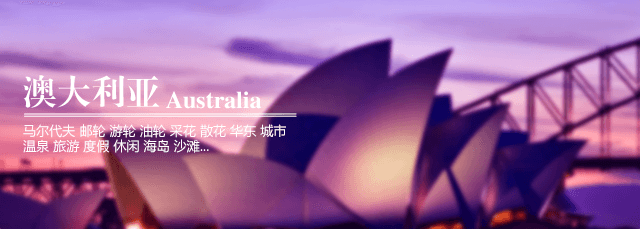
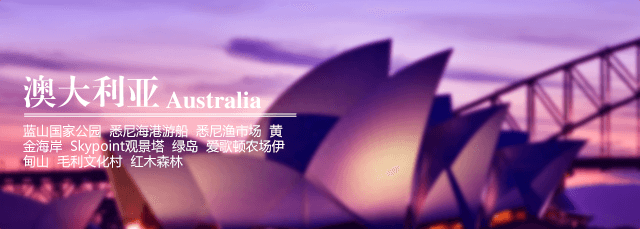
优化：调整图片并重新压缩 调整：抽奖接口

Changed region(s): [[0.0312, 0.5197, 0.4688, 0.7336], [0.5938, 0.7031, 0.625, 0.7642], [0.1875, 0.9476, 0.2188, 0.9782]]

diff --git a/www/fm_20161124_kaimenhong.html b/www/fm_20161124_kaimenhong.html
@@ -23,6 +23,7 @@
 			padding: 0;
 			margin: 0;
 			background-color: #F20000;
+			padding-bottom: 50px;
 		}
 
 		img {
@@ -44,7 +45,7 @@
 			width: 640px;
 			height: 229px;
 			box-sizing: border-box;
-			padding-left: 316px;
+			padding-left: 320px;
 		}
 
 		/*列表模块*/
@@ -165,10 +166,10 @@
 			color: #000;
 			font-size: 18px;
 			line-height: 45px;
-			left: 150px;
+			left: 100px;
 			top: 0;
 			position: absolute;
-			width: 12em;
+			width: 18em;
 			overflow: hidden;
 		}
 
@@ -196,6 +197,13 @@
 			background-color: #FFF;
 			border-radius: 5px;
 			overflow: hidden;
+
+			transition: transform 500ms ease-out, z-index 0s;
+		}
+
+		.tour-unit:hover {
+			transform: scale(1.15);
+			z-inedx: 9;
 		}
 
 		.panel-bigpic .tour-unit {
@@ -236,29 +244,19 @@
 			left: 0;
 			bottom: 57px;
 			width: 280px;
-			height: 30px;
+			max-height: 30px;
 			background-color: rgba(0, 0, 0, 0.7);
 			color: #FFF;
 			line-height: 30px;
 			box-sizing: border-box;
 			padding: 0 10px;
+
+			transition: max-height 1s ease-out, background-color 1s ease-out;
 		}
-		@keyframes height-auto {
-			from {
-				height:30px;
-				background-color:rgba(0, 0, 0, 0.7);
-			}
-			to {
-				height:60px;
-				background-color:rgba(0, 0, 0, 1);
-			}
-		}
+
 		.tour-unit:hover > .name {
-			/*height:auto;*/
-			animation: height-auto 0.6s;
-			animation-fill-mode:both;
-			animation-direction:alternate;
-			transition: transform 500ms ease-out;
+			max-height: 153px;
+			background-color: rgba(0, 0, 0, 1);
 		}
 
 		.tour-unit > .orgprice {
@@ -330,41 +328,76 @@
 				//将所有结果扫描一遍，分拣到对应的数组中去
 				result.value.map(function (unit) {
 					console.log(unit.tourproname);
+					//原价的计算
+					console.log('折扣价格:', unit.pricedescribe, unit.pricedescribe == '');
+					if (unit.pricedescribe == '') {
+						unit.pricedescribe = (parseInt(unit.leastprice / 0.8 / 10)) + '0';
+					}
 					//签证
-					if (unit.tourproname.indexOf('签证') > -1)
+					if (unit.tourproname.indexOf('签证') > -1) {
 						mainVM.visa.push(unit);
-					//机票
-					if (unit.tourproname.indexOf('直飞') > -1)
-						mainVM.internationalticket.push(unit);
+						return true;
+					}
 					//野斯米兰
-					if (unit.tourproname.indexOf('墅斯米兰') > -1)
+					if (unit.tourproname.indexOf('墅斯米兰') > -1) {
 						mainVM.wildsmiles.push(unit);
+						return true;
+					}
 					//台湾
-					if (unit.tourproname.indexOf('台湾') > -1)
+					if (unit.tourproname.indexOf('台湾') > -1) {
 						mainVM.taiwan.push(unit);
+						return true;
+					}
 					//普吉
-					if (unit.tourproname.indexOf('普吉') > -1)
+					if (unit.tourproname.indexOf('普吉') > -1) {
 						mainVM.phuket.push(unit);
+						return true;
+					}
 					//日本
-					if (unit.tourproname.indexOf('日本') > -1)
+					if (unit.tourproname.indexOf('日本') > -1) {
 						mainVM.japan.push(unit);
+						return true;
+					}
 					//量子号邮轮
-					if (unit.tourproname.indexOf('量子号') > -1)
+					if (unit.tourproname.indexOf('量子号') > -1) {
 						mainVM.quantumcruises.push(unit);
+						return true;
+					}
 					//欧美（先欧洲）
-					if (unit.tourproname.indexOf('欧洲') > -1)
+					if (unit.tourproname.indexOf('欧洲') > -1) {
 						mainVM.europeandamericas.push(unit);
+						return true;
+					}
 					//欧美（再美国)
-					if (unit.tourproname.indexOf('美国') > -1)
+					if (unit.tourproname.indexOf('美国') > -1) {
 						mainVM.europeandamericas.push(unit);
+						return true;
+					}
 					//澳大利亚
-					if (unit.tourproname.indexOf('澳洲新西兰') > -1)
+					if (unit.tourproname.indexOf('澳洲新西兰') > -1) {
 						mainVM.australia.push(unit);
+						return true;
+					}
 					//马尔代夫
-					if (unit.tourproname.indexOf('马代') > -1)
+					if (unit.tourproname.indexOf('马代') > -1) {
 						mainVM.maldives.push(unit);
+						return true;
+					}
 					//泰国
+					if (unit.tourproname.indexOf('泰国') > -1) {
+						mainVM.maldives.push(unit);
+						return true;
+					}
 					//南岳祈福
+					if (unit.tourproname.indexOf('南岳') > -1) {
+						mainVM.maldives.push(unit);
+						return true;
+					}
+					//机票
+					if (unit.tourproname.indexOf('机票') > -1) {
+						mainVM.internationalticket.push(unit);
+						return true;
+					}
 				});
 			});
 		});
@@ -373,7 +406,7 @@
 <body ms-controller="main">
 
 <!--TODO: DEBUG-->
-<ul>
+<ul style="display:none;">
 	<li ms-repeat-unit="nanyueblessing">{{unit.tourproname}}</li>
 	<li ms-repeat-unit="internationalticket">{{unit.tourproname}}</li>
 	<li ms-repeat-unit="visa">{{unit.tourproname}}</li>
@@ -505,8 +538,12 @@
 			/* background: #F00; */
 			width: 25%;
 			height: 67%;
-			right: 3%;
+			right: 1.3%;
 			top: 21%;
+			line-height: 46.22px;
+			text-align: center;
+			color: #FFF;
+			font-size: 20px;
 		}
 
 		#nwlottery > img.lotteryimg {
@@ -529,8 +566,8 @@
 		<img alt="" class="lotteryimg" src="./images/nwlottery10.png">
 		<img alt="" class="lotteryimg" src="./images/nwlottery20.png">
 		<img alt="" class="lotteryimg" src="./images/nwlottery50.png">
-		<img src="./images/newyearlottery.png" alt="">
-		<div id="lotteryBtn" running="0"></div>
+		<img src="./images/kaimenhong/newyearlottery.png" alt="">
+		<div id="lotteryBtn" running="0">点击抽奖</div>
 	</div>
 	<script>
 		//在微信中才显示抽奖活动
@@ -546,11 +583,12 @@
 				alert('您正在抽奖中');
 				return false;
 			}
-			//设置运行状态为1
-			$('#lotteryBtn').attr('running', 1);
-			//TODO:现在都是测试数据
 			$.getJSON(server_addr + '/miaosha/miaosha_addChouJiangOrder.action?jsoncallback=?&userid=' + '636773', function (result) {
-				if (result.status == '1' || true) {
+				console.log('抽奖结果：',result);
+				//TODO:现在都是测试数据，记得要把true关掉！
+				if (result.status == '1') {
+					//设置运行状态为1
+					$('#lotteryBtn').attr('running', 1);
 					//返回成功的处理
 					var _maxCicle    = 50;	//默认先滚动多少次
 					var _circleCount = 0;	//滚动计数器
@@ -572,6 +610,7 @@
 							clearInterval(_siPoint);
 							//设置运行状态为0
 							$('#lotteryBtn').attr('running', 0);
+							$('#lotteryBtn').text('剩余次数:'+result.count);
 						}
 					}, 100);
 				} else {
@@ -579,6 +618,11 @@
 					var errMsg = '';
 					if (result.status == '102') {
 						errMsg = '您已参加过抽奖，请点击右上角进入用户中心查看。';
+						$('#lotteryBtn').text('次数已用完');
+					}
+					if (result.status == '103') {
+						errMsg = '活动尚未开始，敬请期待。';
+						$('#lotteryBtn').text('尚未开始');
 					}
 					if (errMsg != '') {
 						alert(errMsg);
@@ -611,7 +655,7 @@
 		<div class="price">&yen;{{unit.leastprice}}</div>
 		<div class="date">{{unit.tourdescdate.split(',')[0]}}</div>
 		<div class="desc">{{unit.startcity}}-{{unit.nation}}</div>
-		<a ms-attr-href="{{unit.lineid}}" class="link">查看详情</a>
+		<a ms-attr-href="http://www.htyou.com/weixin_h5/tour-detail.html?lineid={{unit.lineid}}" class="link">查看详情</a>
 	</div>
 </div>
 <!--签证-->
@@ -625,7 +669,7 @@
 	<div class="visa-unit" ms-repeat-unit="visa">
 		<div class="price">&yen;{{unit.leastprice}}</div>
 		<div class="desc">{{unit.tourproname}}</div>
-		<a ms-attr-href="{{unit.lineid}}" class="link">查看详情</a>
+		<a ms-attr-href="http://www.htyou.com/weixin_h5/tour-detail.html?lineid={{unit.lineid}}" class="link">查看详情</a>
 	</div>
 </div>
 
@@ -643,9 +687,9 @@
 		<div class="coupon">红包限额50元</div>
 		<div class="image" ms-attr-style="background-image: url(http://www.htyou.com/{{unit.spotviewpic}});"></div>
 		<div class="name">{{unit.tourproname}}</div>
-		<div class="orgprice">原价：<span>30000元</span></div>
+		<div class="orgprice">原价：<span>{{unit.pricedescribe}}元</span></div>
 		<div class="discount">折扣价&yen;{{unit.leastprice}}元</div>
-		<a ms-attr-href="{{unit.lineid}}" class="buybuybuy">立即预订</a>
+		<a ms-attr-href="http://www.htyou.com/weixin_h5/tour-detail.html?lineid={{unit.lineid}}" class="buybuybuy">立即预订</a>
 	</div>
 	<!--/线路单元-->
 </div>
@@ -662,9 +706,9 @@
 		<div class="coupon">红包限额50元</div>
 		<div class="image" ms-attr-style="background-image: url(http://www.htyou.com/{{unit.spotviewpic}});"></div>
 		<div class="name">{{unit.tourproname}}</div>
-		<div class="orgprice">原价：<span>30000元</span></div>
+		<div class="orgprice">原价：<span>{{unit.pricedescribe}}元</span></div>
 		<div class="discount">折扣价&yen;{{unit.leastprice}}元</div>
-		<a ms-attr-href="{{unit.lineid}}" class="buybuybuy">立即预订</a>
+		<a ms-attr-href="http://www.htyou.com/weixin_h5/tour-detail.html?lineid={{unit.lineid}}" class="buybuybuy">立即预订</a>
 	</div>
 	<!--/线路单元-->
 </div>
@@ -681,9 +725,9 @@
 		<div class="coupon">红包限额50元</div>
 		<div class="image" ms-attr-style="background-image: url(http://www.htyou.com/{{unit.spotviewpic}});"></div>
 		<div class="name">{{unit.tourproname}}</div>
-		<div class="orgprice">原价：<span>30000元</span></div>
+		<div class="orgprice">原价：<span>{{unit.pricedescribe}}元</span></div>
 		<div class="discount">折扣价&yen;{{unit.leastprice}}元</div>
-		<a ms-attr-href="{{unit.lineid}}" class="buybuybuy">立即预订</a>
+		<a ms-attr-href="http://www.htyou.com/weixin_h5/tour-detail.html?lineid={{unit.lineid}}" class="buybuybuy">立即预订</a>
 	</div>
 	<!--/线路单元-->
 </div>
@@ -700,9 +744,9 @@
 		<div class="coupon">红包限额50元</div>
 		<div class="image" ms-attr-style="background-image: url(http://www.htyou.com/{{unit.spotviewpic}});"></div>
 		<div class="name">{{unit.tourproname}}</div>
-		<div class="orgprice">原价：<span>30000元</span></div>
+		<div class="orgprice">原价：<span>{{unit.pricedescribe}}元</span></div>
 		<div class="discount">折扣价&yen;{{unit.leastprice}}元</div>
-		<a ms-attr-href="{{unit.lineid}}" class="buybuybuy">立即预订</a>
+		<a ms-attr-href="http://www.htyou.com/weixin_h5/tour-detail.html?lineid={{unit.lineid}}" class="buybuybuy">立即预订</a>
 	</div>
 	<!--/线路单元-->
 </div>
@@ -719,9 +763,9 @@
 		<div class="coupon">红包限额50元</div>
 		<div class="image" ms-attr-style="background-image: url(http://www.htyou.com/{{unit.spotviewpic}});"></div>
 		<div class="name">{{unit.tourproname}}</div>
-		<div class="orgprice">原价：<span>30000元</span></div>
+		<div class="orgprice">原价：<span>{{unit.pricedescribe}}元</span></div>
 		<div class="discount">折扣价&yen;{{unit.leastprice}}元</div>
-		<a ms-attr-href="{{unit.lineid}}" class="buybuybuy">立即预订</a>
+		<a ms-attr-href="http://www.htyou.com/weixin_h5/tour-detail.html?lineid={{unit.lineid}}" class="buybuybuy">立即预订</a>
 	</div>
 	<!--/线路单元-->
 </div>
@@ -738,9 +782,9 @@
 		<div class="coupon">红包限额50元</div>
 		<div class="image" ms-attr-style="background-image: url(http://www.htyou.com/{{unit.spotviewpic}});"></div>
 		<div class="name">{{unit.tourproname}}</div>
-		<div class="orgprice">原价：<span>30000元</span></div>
+		<div class="orgprice">原价：<span>{{unit.pricedescribe}}元</span></div>
 		<div class="discount">折扣价&yen;{{unit.leastprice}}元</div>
-		<a ms-attr-href="{{unit.lineid}}" class="buybuybuy">立即预订</a>
+		<a ms-attr-href="http://www.htyou.com/weixin_h5/tour-detail.html?lineid={{unit.lineid}}" class="buybuybuy">立即预订</a>
 	</div>
 	<!--/线路单元-->
 </div>
@@ -757,9 +801,9 @@
 		<div class="coupon">红包限额50元</div>
 		<div class="image" ms-attr-style="background-image: url(http://www.htyou.com/{{unit.spotviewpic}});"></div>
 		<div class="name">{{unit.tourproname}}</div>
-		<div class="orgprice">原价：<span>30000元</span></div>
+		<div class="orgprice">原价：<span>{{unit.pricedescribe}}元</span></div>
 		<div class="discount">折扣价&yen;{{unit.leastprice}}元</div>
-		<a ms-attr-href="{{unit.lineid}}" class="buybuybuy">立即预订</a>
+		<a ms-attr-href="http://www.htyou.com/weixin_h5/tour-detail.html?lineid={{unit.lineid}}" class="buybuybuy">立即预订</a>
 	</div>
 	<!--/线路单元-->
 </div>
@@ -776,9 +820,9 @@
 		<div class="coupon">红包限额50元</div>
 		<div class="image" ms-attr-style="background-image: url(http://www.htyou.com/{{unit.spotviewpic}});"></div>
 		<div class="name">{{unit.tourproname}}</div>
-		<div class="orgprice">原价：<span>30000元</span></div>
+		<div class="orgprice">原价：<span>{{unit.pricedescribe}}元</span></div>
 		<div class="discount">折扣价&yen;{{unit.leastprice}}元</div>
-		<a ms-attr-href="{{unit.lineid}}" class="buybuybuy">立即预订</a>
+		<a ms-attr-href="http://www.htyou.com/weixin_h5/tour-detail.html?lineid={{unit.lineid}}" class="buybuybuy">立即预订</a>
 	</div>
 	<!--/线路单元-->
 </div>
@@ -795,9 +839,9 @@
 		<div class="coupon">红包限额50元</div>
 		<div class="image" ms-attr-style="background-image: url(http://www.htyou.com/{{unit.spotviewpic}});"></div>
 		<div class="name">{{unit.tourproname}}</div>
-		<div class="orgprice">原价：<span>30000元</span></div>
+		<div class="orgprice">原价：<span>{{unit.pricedescribe}}元</span></div>
 		<div class="discount">折扣价&yen;{{unit.leastprice}}元</div>
-		<a ms-attr-href="{{unit.lineid}}" class="buybuybuy">立即预订</a>
+		<a ms-attr-href="http://www.htyou.com/weixin_h5/tour-detail.html?lineid={{unit.lineid}}" class="buybuybuy">立即预订</a>
 	</div>
 	<!--/线路单元-->
 </div>
@@ -805,7 +849,7 @@
 
 <script>
 	$(document).ready(function () {
-		$('.havaicon').prepend('<div class="icon"></div>');
+		$('#thailand,#maldives,#taiwan,#australia,#japan,#wildsmiles,#phuket,#quantumcruises,#europeandamericas').prepend('<div class="icon"></div>');
 	});
 </script>
 </body>
